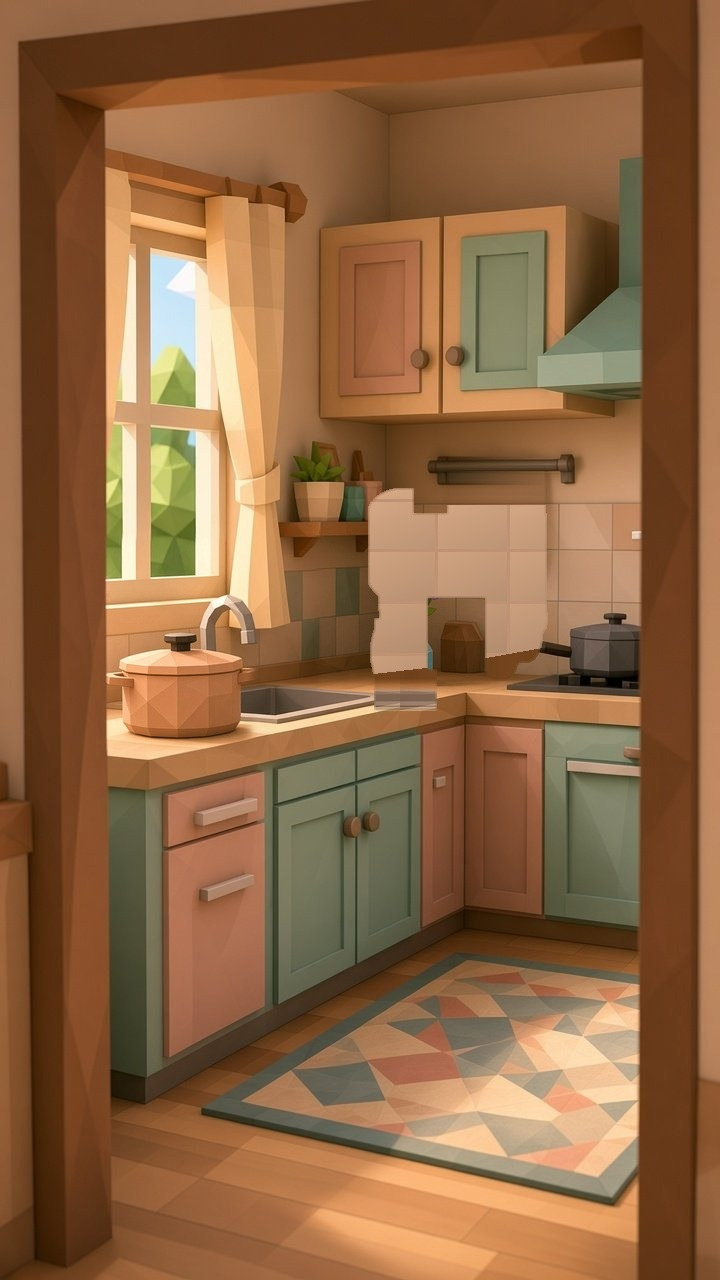
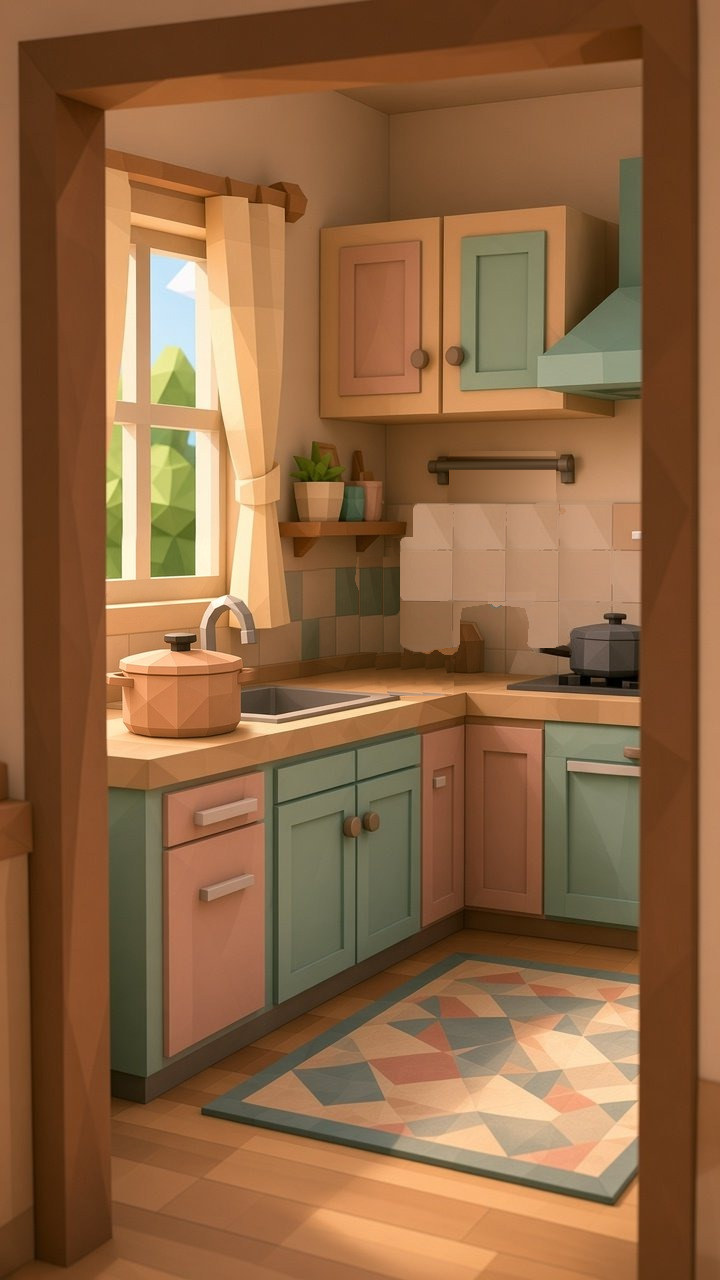
fix(nes): event-01@1.0.13 mend seams in the past-kitchen backsplash
Rebuild kitchen-wide-past.jpg so the tiled backsplash is continuous
and matches the present kitchen, with the vase and wet cloth still
absent.

Changed region(s): [[0.4889, 0.3438, 0.7944, 0.5625], [0.7639, 0.4688, 0.7944, 0.5]]

diff --git a/games/never-ending-story/src/modules/event-01/GDD.md b/games/never-ending-story/src/modules/event-01/GDD.md
@@ -3,7 +3,7 @@
 | ฟิลด์ | ค่า |
 |---|---|
 | kind | event |
-| เวอร์ชัน | 1.0.12 |
+| เวอร์ชัน | 1.0.13 |
 | เทมเพลต | `docs/gdd/TEMPLATE.md` |
 | อ้างอิง | `docs/design/never-ending-story-game-spec-v0.4-th.md` |
 
@@ -51,6 +51,7 @@ event-core ^1.2.4, core >=0.6.24, crossword, jigsaw, slide
 ## 13. Changelog (ผูกกับเวอร์ชันโมดูล)
 | เวอร์ชัน | แอป | การเปลี่ยนแปลง |
 |---|---|---|
+| 1.0.13 | 0.6.39 | แก้รอยต่อกระเบื้องในภาพครัวอดีต `kitchen-wide-past.jpg` ให้ต่อเนื่องตามสไตล์ครัวปัจจุบัน ยังไม่มีแจกันและผ้าเปียก |
 | 1.0.12 | 0.6.38 | ย้อนเวลาแล้วสลับห้องด้วยจุดเดินทางหรือประตูจะยังอยู่ในช่วงเวลานั้น จนกว่าจะใช้นาฬิกากลับมาปัจจุบัน ประตูครัวใช้ได้ทุกช่วงเวลา แจกันกับผ้าเปียกและภาพครัวมุมใกล้โผล่เฉพาะปัจจุบัน ครัวในอดีตใช้ภาพ `kitchen-wide-past.jpg` ที่ไม่มีแจกันและผ้าเปียก เก็บสติกเกอร์ลับจากพัดลมแล้วเข้ากระเป๋า และเมื่อกลับห้องจะมีหน้าสรุปของที่ได้ในทริปแล้วย้ายเข้ากล่องเก็บของ (ถูกบันทึกในเซฟ ไม่ถูกรีเซ็ตตอนเล่นคดีซ้ำ) ลุงเมฆไม่บอกเบาะแสกล่องดาวจนกว่าจะช่วยครอสเวิร์ดชนะ และไม่มีคำว่า "(เสริม)" ในตัวเลือกหรือแผนผังบ้าน โน้ตน้ารินเหลือหน้าเดียว รวมข้อความเดิมทั้งสองด้าน ไม่ต้องพลิก และปุ่มปิดไม่ทับกล่องหลักฐานหรือปุ่มลอย |
 | 1.0.11 | 0.6.37 | ลงทะเบียนไอเทมคดีใน `items.json`: รูปปู่ตอนหนุ่มเป็นชนิดกรอบรูป (ไอคอนกรอบมีรูปจำลองและขาตั้ง รายละเอียดเป็นรูปจริง) และกุญแจกล่องรูปดาวเป็นชนิดกุญแจ |
 | 1.0.10 | 0.6.35 | มาสก์หน้าฉากเปิดหน้า 2 ช่องล่างตามภาพใหม่: `p2-child-s3` และ `p2-grandma-s3` (เดิม `p2-mom-s3`) E02 ได้ตอนย้อนเวลาด้วยนาฬิกาแล้วเห็นน้ารินทำน้ำหก โต๊ะกลางตอนนี้มีแค่โน้ต ครัวให้หลักฐาน E06 (ผ้าเปียกและแจกันเติมน้ำใหม่) สมุดคดีเป็น 5 ชิ้น สรุปคดีล็อกจนกว่าจะได้ E02 พลังย้อนเวลาโชว์เมื่อมี E01 หรือ E06 ปฏิทินยังย้อนวันไม่ได้ โน้ตน้ารินเป็นลายมือพลิกได้ ข้อความหลักฐานอยู่ด้านล่างหลังปิด บ้านสองชั้น: ห้องทำงานย้ายขึ้นชั้น 2 เหนือครัว (id `study` เดิม เซฟเก่าใช้ต่อได้) ห้องนอนย่าชั้น 1 กับห้องลุงเมฆและป้าชั้น 2 ล็อกไว้ ประตูขวาในห้องนั่งเล่นเป็นประตูห้องนอนย่าที่ล็อก E04 ชี้ห้องทำงานชั้น 2 ภาพครัวกลับซ้ายขวาและจุดแตะครัวเปลี่ยนเป็น x = 100 − x จุดแตะบนแผนผังบ้านย้ายตามผังใหม่: บันไดอยู่กลางด้านหน้า ครัวและห้องทำงานอยู่ปีกขวา ห้องย่าและห้องลุงเมฆอยู่ด้านหลัง (ยังล็อกเหมือนเดิม) |
